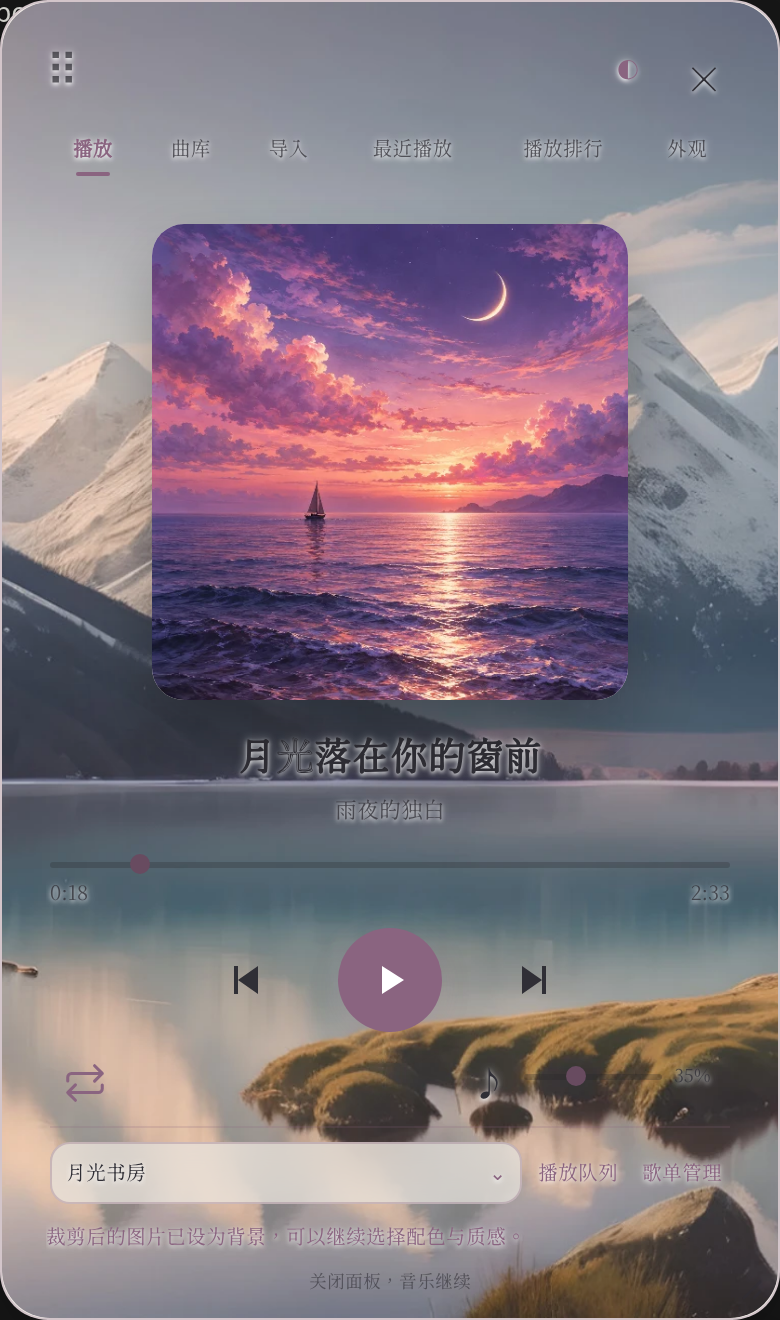
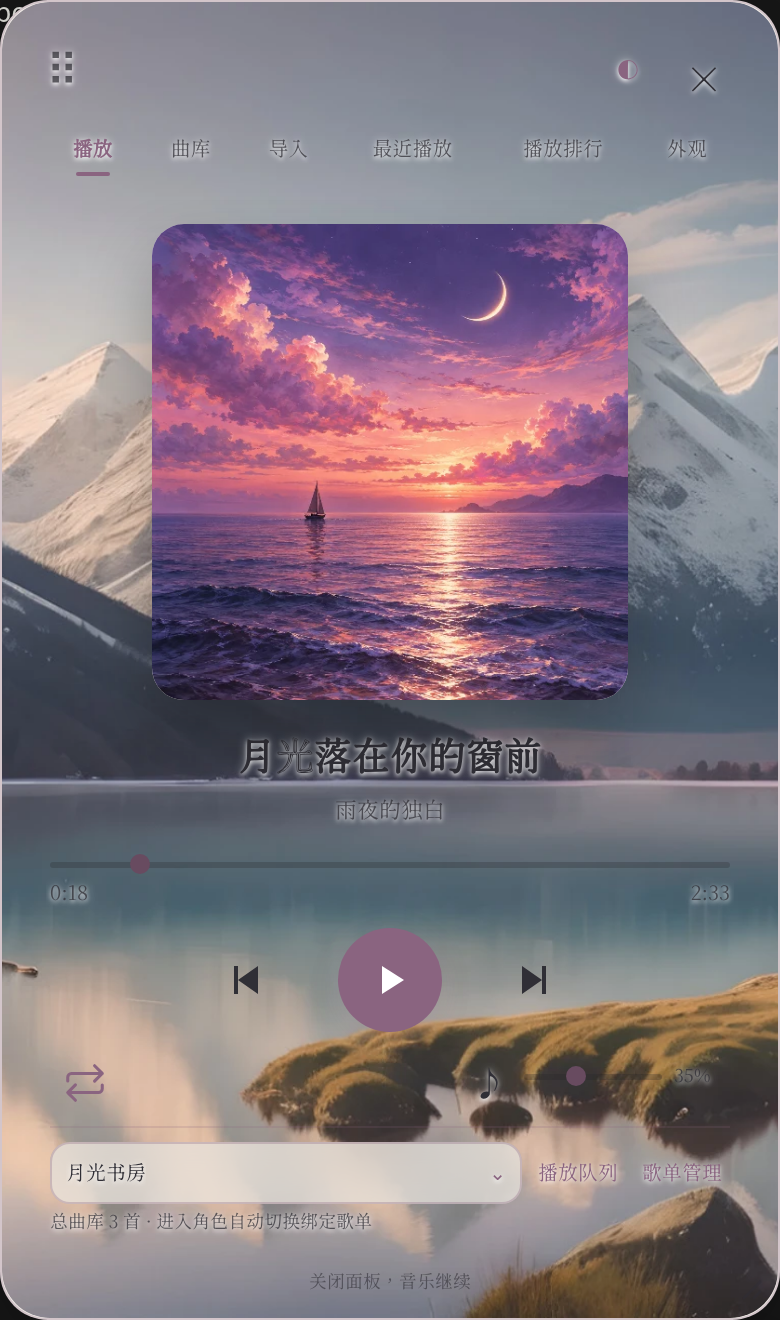
Refine song details sheet and compact bottom playback bar

Changed region(s): [[0.2154, 0.9008, 0.6462, 0.9629], [0.0615, 0.9008, 0.1846, 0.9629]]

diff --git a/index.js b/index.js
@@ -37,7 +37,8 @@ function initialize() {
     let canAutoAdvance = true;
     let membershipTrackId = null;
     let libraryDetail = false;
-    let queueReturnFocus = null;
+    const sheetReturnFocus = new Map();
+    let statusTimer;
     let currentPage = 'playback';
     let playSession = 0;
     let countedSession = -1;
@@ -156,13 +157,6 @@ function initialize() {
             </div>
             <p class="stm-hint">删除歌单保留全部歌曲。进入绑定角色时只切歌单，音乐需手动播放。</p>
         </div>
-        <section class="stm-track-details" hidden>
-            <div class="stm-heading-actions"><strong data-role="details-title"></strong><button type="button" class="stm-icon" data-action="close-details" aria-label="关闭歌曲详情">×</button></div>
-            <p class="stm-hint">给这首歌换封面，或添加歌词。</p>
-            <div class="stm-detail-actions"><button type="button" class="stm-secondary" data-action="song-cover">添加封面</button><button type="button" class="stm-secondary" data-action="song-lyrics">导入歌词</button><button type="button" class="stm-secondary" data-action="clear-song-cover">恢复随机封面</button><button type="button" class="stm-secondary" data-action="clear-song-lyrics">清除歌词</button></div>
-            <input type="file" data-role="song-cover-file" accept="image/png,image/jpeg,image/webp,image/gif,image/avif" hidden>
-            <input type="file" data-role="lyrics-file" accept=".lrc,.txt,text/plain" hidden>
-        </section>
         <div class="stm-membership" hidden>
             <strong data-role="membership-title"></strong>
             <p class="stm-hint">选择目标歌单，再点“加入歌单”。原曲仍保留在总曲库。</p>
@@ -253,6 +247,25 @@ function initialize() {
                 <ol class="stm-queue-list" aria-label="当前歌单"></ol><p class="stm-sheet-empty stm-hint">播放列表还是空的。</p>
             </section>
         </div>
+        <div id="stm-details" class="stm-queue-overlay stm-details-overlay" hidden>
+            <div class="stm-queue-scrim" data-action="close-details" aria-hidden="true"></div>
+            <section class="stm-queue-sheet stm-track-details" role="dialog" aria-modal="true" aria-label="歌曲详情">
+                <span class="stm-sheet-grip" aria-hidden="true"></span>
+                <header><strong>歌曲详情</strong><button type="button" class="stm-icon" data-action="close-details" aria-label="关闭歌曲详情">×</button></header>
+                <div class="stm-details-content">
+                    <div class="stm-details-summary"><img class="stm-details-cover" alt="歌曲封面"><div><strong data-role="details-title"></strong><small data-role="details-source"></small></div></div>
+                    <p class="stm-hint">让封面和歌词，成为这首歌的一部分。</p>
+                    <div class="stm-detail-actions">
+                        <button type="button" class="stm-secondary" data-action="song-cover" aria-label="添加封面"><span>添加封面</span><small aria-hidden="true">上传喜欢的图片</small></button>
+                        <button type="button" class="stm-secondary" data-action="song-lyrics" aria-label="导入歌词"><span>导入歌词</span><small aria-hidden="true">支持 LRC / TXT</small></button>
+                        <button type="button" class="stm-secondary" data-action="clear-song-cover" aria-label="恢复随机封面"><span>恢复随机封面</span><small aria-hidden="true">使用内置插画</small></button>
+                        <button type="button" class="stm-secondary" data-action="clear-song-lyrics" aria-label="清除歌词"><span>清除歌词</span><small aria-hidden="true">移除当前歌曲的歌词</small></button>
+                    </div>
+                    <input type="file" data-role="song-cover-file" accept="image/png,image/jpeg,image/webp,image/gif,image/avif" hidden>
+                    <input type="file" data-role="lyrics-file" accept=".lrc,.txt,text/plain" hidden>
+                </div>
+            </section>
+        </div>
         <div class="stm-lyrics-view" role="button" tabindex="0" aria-label="显示封面" hidden><div class="stm-lyrics-lines"></div><span class="stm-lyrics-tip">轻点返回封面</span></div>
         <button type="button" class="stm-resize-handle" aria-label="调整播放器大小" title="拖动调整大小，也可用方向键微调"><svg viewBox="0 0 20 20" aria-hidden="true"><path d="m8 16 8-8M13 16l3-3"/></svg></button>
         <section class="stm-crop-editor" role="dialog" aria-modal="true" aria-label="裁剪背景图片" hidden>
@@ -311,6 +324,7 @@ function initialize() {
         if (!query(`[data-view="${page}"]`)) return;
         currentPage = page;
         menus.close();
+        setDetailsOpen(false);
         if (page !== 'playback') { setQueueOpen(false); setLyricsOpen(false); }
         for (const section of panel.querySelectorAll('[data-view]')) section.hidden = section.dataset.view !== page;
         for (const button of panel.querySelectorAll('[data-page]')) {
@@ -325,24 +339,44 @@ function initialize() {
         updateMini();
         panelDrag.refresh();
     }
-    function setQueueOpen(open, focus = false) {
-        const overlay = query('#stm-queue');
-        if (open) { queueReturnFocus = document.activeElement; menus.close(); renderQueue(); }
-        overlay.hidden = !open;
-        for (const child of panel.children) if (child !== overlay && !child.classList.contains('stm-click-effects')) child.inert = open;
-        for (const button of panel.querySelectorAll('[data-action="toggle-queue"], .stm-mini-queue')) button.setAttribute('aria-expanded', String(open));
-        if (open) overlay.querySelector('button').focus({ preventScroll: true });
-        else if (focus && queueReturnFocus?.isConnected) queueReturnFocus.focus({ preventScroll: true });
-    }
-    for (const element of panel.querySelectorAll('[data-action="close-queue"]')) element.addEventListener('click', () => setQueueOpen(false, true));
-    query('#stm-queue').addEventListener('keydown', event => {
-        if (event.key === 'Escape') { event.stopPropagation(); setQueueOpen(false, true); }
-        if (event.key === 'Tab') {
-            const buttons = [...query('#stm-queue').querySelectorAll('button:not(:disabled)')];
-            if (event.shiftKey && document.activeElement === buttons[0]) { event.preventDefault(); buttons.at(-1)?.focus(); }
-            else if (!event.shiftKey && document.activeElement === buttons.at(-1)) { event.preventDefault(); buttons[0]?.focus(); }
+    function setSheetOpen(selector, open, restoreFocus = false) {
+        const overlay = query(selector);
+        if (open) {
+            sheetReturnFocus.set(selector, document.activeElement);
+            menus.close();
+            for (const other of panel.querySelectorAll(':scope > .stm-queue-overlay')) if (other !== overlay) other.hidden = true;
         }
-    });
+        overlay.hidden = !open;
+        const active = [...panel.querySelectorAll(':scope > .stm-queue-overlay')].find(sheet => !sheet.hidden);
+        for (const child of panel.children) if (child !== status && !child.classList.contains('stm-click-effects')) child.inert = Boolean(active && child !== active);
+        for (const button of panel.querySelectorAll('[data-action="toggle-queue"], .stm-mini-queue')) button.setAttribute('aria-expanded', String(!query('#stm-queue').hidden));
+        if (open) overlay.querySelector('button').focus({ preventScroll: true });
+        else if (restoreFocus) {
+            const previous = sheetReturnFocus.get(selector);
+            const fallback = selector === '#stm-details' ? [...panel.querySelectorAll('[data-details-id]')].find(button => button.dataset.detailsId === detailsTrackId) : null;
+            (previous?.isConnected ? previous : fallback || query('[data-action="close"]')).focus({ preventScroll: true });
+        }
+    }
+    function setQueueOpen(open, focus = false) {
+        if (open) renderQueue();
+        setSheetOpen('#stm-queue', open, focus);
+    }
+    function setDetailsOpen(open, focus = false) {
+        if (open) renderSongDetails();
+        setSheetOpen('#stm-details', open, focus);
+    }
+    for (const [selector, action] of [['#stm-queue', 'close-queue'], ['#stm-details', 'close-details']]) {
+        const close = () => setSheetOpen(selector, false, true);
+        for (const element of query(selector).querySelectorAll(`[data-action="${action}"]`)) element.addEventListener('click', close);
+        query(selector).addEventListener('keydown', event => {
+            if (event.key === 'Escape') { event.preventDefault(); event.stopPropagation(); close(); }
+            if (event.key === 'Tab') {
+                const buttons = [...query(selector).querySelectorAll('button:not(:disabled)')];
+                if (event.shiftKey && document.activeElement === buttons[0]) { event.preventDefault(); buttons.at(-1)?.focus(); }
+                else if (!event.shiftKey && document.activeElement === buttons.at(-1)) { event.preventDefault(); buttons[0]?.focus(); }
+            }
+        });
+    }
     query('[data-action="toggle-queue"]').addEventListener('click', () => setQueueOpen(query('#stm-queue').hidden));
     query('[data-action="go-import"]').addEventListener('click', () => { importTarget.value = settings.activePlaylistId || ''; menus.refresh(); showPage('import'); });
     query('[data-action="go-library"]').addEventListener('click', showLibraryHome);
@@ -564,7 +598,18 @@ function initialize() {
         if (entry?.url) URL.revokeObjectURL(entry.url);
         coverCache.delete(id);
     }
-    query('[data-action="close-details"]').addEventListener('click', () => { query('.stm-track-details').hidden = true; });
+    function renderSongDetails() {
+        const track = settings.tracks.find(track => track.id === detailsTrackId);
+        if (!track) return;
+        query('[data-role="details-title"]').textContent = track.title;
+        query('[data-role="details-source"]').textContent = track.artist || (track.kind === 'local' ? '本地音乐' : '在线音乐');
+        const image = query('.stm-details-cover');
+        image.src = fallbackCoverUrl(track.fallbackCover ?? 0);
+        const coverId = track.coverId;
+        if (coverId) void cachedCover(coverId).then(url => {
+            if (url && detailsTrackId === track.id && track.coverId === coverId) image.src = url;
+        });
+    }
     const songCoverInput = query('[data-role="song-cover-file"]');
     const lyricsInput = query('[data-role="lyrics-file"]');
     query('[data-action="song-cover"]').addEventListener('click', () => songCoverInput.click());
@@ -656,7 +701,7 @@ function initialize() {
             save();
             await restoreBackground();
             query('[data-role="background-status"]').textContent = '背景已保存，可重新裁剪；图片仅保存在当前浏览器。';
-            showStatus('裁剪后的图片已设为背景，可以继续选择配色与质感。');
+            showStatus();
             await deleteBackgroundFiles(previous).catch(() => {});
         },
         onError(error) {
@@ -701,15 +746,17 @@ function initialize() {
     void restoreBackground();
 
     function showStatus(message = '', error = false) {
+        window.clearTimeout(statusTimer);
         status.textContent = message;
         status.classList.toggle('stm-error', error);
+        if (message) statusTimer = window.setTimeout(() => { status.textContent = ''; status.classList.remove('stm-error'); }, error ? 8000 : 4000);
     }
 
     function setOpen(open, focus = true) {
         panel.hidden = !open;
         launcher.setAttribute('aria-expanded', String(open));
         if (open) { resizer.refresh(); panelDrag.refresh(); if (focus) (panel.dataset.lyricsOpen === 'true' ? query('.stm-lyrics-view') : query('[data-action="close"]')).focus(); }
-        else { menus.close(); setQueueOpen(false); if (panel.contains(document.activeElement)) launcher.focus(); }
+        else { menus.close(); setQueueOpen(false); setDetailsOpen(false); if (panel.contains(document.activeElement)) launcher.focus(); }
     }
 
     const activePlaylist = () => settings.playlists.find(item => item.id === settings.activePlaylistId);
@@ -960,11 +1007,10 @@ function initialize() {
             const details = document.createElement('button');
             details.type = 'button'; details.className = 'stm-icon'; details.textContent = '⋯';
             details.setAttribute('aria-label', `歌曲详情：${track.title}`);
+            details.dataset.detailsId = track.id;
             details.addEventListener('click', () => {
                 detailsTrackId = track.id;
-                query('[data-role="details-title"]').textContent = track.title;
-                query('.stm-track-details').hidden = false;
-                query('.stm-track-details').scrollIntoView({ block: 'nearest' });
+                setDetailsOpen(true);
             });
             row.append(details);
             if (activePlaylist()) {
@@ -1005,7 +1051,8 @@ function initialize() {
         query('[data-action="previous"]').disabled = queue.length === 0;
         query('[data-action="next"]').disabled = queue.length === 0;
         if (assignedCover) save();
-        if (!settings.tracks.some(track => track.id === detailsTrackId)) query('.stm-track-details').hidden = true;
+        if (!settings.tracks.some(track => track.id === detailsTrackId)) setDetailsOpen(false);
+        else if (!query('#stm-details').hidden) renderSongDetails();
         renderQueue();
         renderHistory();
         updatePlayback();
@@ -1449,6 +1496,7 @@ function initialize() {
             fontPicker.dispose(); mini.dispose(); menus.dispose(); resizer.dispose(); disposeClickEffects();
             systemScheme.removeEventListener('change', onSystemScheme);
             window.clearInterval(historyTimer);
+            window.clearTimeout(statusTimer);
         }
     });
 

diff --git a/tests/player.e2e.js b/tests/player.e2e.js
@@ -17,6 +17,7 @@ function wav(seconds = 8) {
 async function playerPage(page, name) {
     if (await page.locator('.stm-lyrics-view').isVisible()) await page.getByRole('button', { name: '显示封面', exact: true }).click();
     if (await page.locator('#stm-queue').isVisible()) await page.getByRole('button', { name: '关闭播放列表', exact: true }).click();
+    if (await page.locator('#stm-details').isVisible()) await page.getByRole('button', { name: '关闭歌曲详情', exact: true }).click();
     await page.getByRole('tab', { name, exact: true }).click();
     if (name === '曲库') {
         const id = await page.locator('#stm-library-playlist').inputValue();
@@ -284,7 +285,7 @@ test('filenames are rendered as text, and the player fits a small screen', async
     expect(bounds.x + bounds.width).toBeLessThanOrEqual(375);
     expect(bounds.y).toBeGreaterThanOrEqual(0);
     await page.locator('#stm-player').evaluate(panel => { panel.scrollTop = panel.scrollHeight; });
-    await expect(page.locator('.stm-footer')).toBeInViewport();
+    await expect(page.locator('.stm-mini-player')).toBeInViewport();
 });
 
 async function dragTo(page, element, target) {
@@ -842,7 +843,7 @@ test('crop dragging, cancellation and invalid image recovery work on a small scr
     await page.getByRole('button', { name: '使用此区域', exact: true }).click();
     await expect(page.locator('.stm-crop-editor')).toBeHidden();
     await expect(page.locator('#stm-player')).toHaveAttribute('data-has-background', 'true');
-    await expect(page.locator('.stm-footer')).toBeInViewport();
+    await expect(page.locator('.stm-mini-player')).toBeInViewport();
 });
 
 test('mask transparency is independent per material, preserves clear mode, and persists across reloads', async ({ page }) => {
@@ -1361,7 +1362,7 @@ test('vinyl mini bar animates only while playing and its queue uses two thirds o
         await page.setViewportSize(viewport);
         await page.locator('.stm-mini-queue').click();
         await expect(page.locator('.stm-queue-track')).toHaveCount(16);
-        const panel = await page.locator('#stm-player').boundingBox(), sheet = await page.locator('.stm-queue-sheet').boundingBox();
+        const panel = await page.locator('#stm-player').boundingBox(), sheet = await page.locator('#stm-queue .stm-queue-sheet').boundingBox();
         expect(sheet.height).toBeLessThanOrEqual(panel.height * 2/3 + 1); expect(sheet.height).toBeGreaterThan(panel.height * .6);
         expect(sheet.y+sheet.height).toBeLessThanOrEqual(panel.y+panel.height);
         await page.getByRole('button', {name: '播放队列歌曲：下一首', exact:true}).click();
@@ -1376,4 +1377,61 @@ test('vinyl mini bar animates only while playing and its queue uses two thirds o
     await page.locator('.stm-mini-info').click();
     await expect(page.getByRole('tab', {name:'播放',exact:true})).toHaveAttribute('aria-selected','true');
     await expect(page.locator('.stm-mini-player')).toBeHidden();
+});
+
+test('song details open as a two thirds bottom sheet and retain controls, focus and playback after cover edits', async ({ page }) => {
+    await importSongs(page, ['我的封面与歌词']); await playSong(page, '我的封面与歌词');
+    await playerPage(page, '曲库');
+    const opener = page.getByRole('button', {name:'歌曲详情：我的封面与歌词', exact:true});
+    for (const viewport of [{width:1280,height:900}, {width:375,height:667}]) {
+        await page.setViewportSize(viewport); await opener.click();
+        const sheet = page.getByRole('dialog', {name:'歌曲详情', exact:true});
+        await expect(sheet).toBeVisible();
+        const panel = await page.locator('#stm-player').boundingBox(), box = await sheet.boundingBox();
+        expect(box.height).toBeLessThanOrEqual(panel.height*2/3+1);
+        expect(box.y).toBeGreaterThanOrEqual(panel.y+panel.height/3-1);
+        expect(box.y+box.height).toBeLessThanOrEqual(panel.y+panel.height);
+        await expect(page.locator('[data-role="details-title"]')).toHaveText('我的封面与歌词');
+        await expect(page.getByRole('button', {name:'关闭歌曲详情',exact:true})).toBeFocused();
+        await page.keyboard.press('Shift+Tab');
+        await expect(page.getByRole('button', {name:'清除歌词',exact:true})).toBeFocused();
+        await page.locator('[data-role="song-cover-file"]').setInputFiles(await imageFixture(page));
+        await expect(page.locator('.stm-details-cover')).toHaveAttribute('src', /^blob:/);
+        await expect.poll(() => page.locator('#stm-player audio').evaluate(audio => audio.paused)).toBe(false);
+        await page.keyboard.press('Escape');
+        await expect(sheet).toBeHidden(); await expect(opener).toBeFocused();
+        await opener.click();
+        const scrim = page.locator('#stm-details > .stm-queue-scrim');
+        await scrim.click({position:{x:(await scrim.boundingBox()).width/2,y:70}});
+        await expect(sheet).toBeHidden(); await expect(opener).toBeFocused();
+    }
+});
+
+test('background saves leave no lingering message and the compact mini bar stays at the bottom in both color schemes', async ({ page }) => {
+    await importBackground(page); await page.getByRole('button', {name:'使用此区域',exact:true}).click();
+    await expect(page.locator('.stm-crop-editor')).toBeHidden();
+    await expect(page.locator('#stm-player')).toHaveAttribute('data-has-background','true');
+    await expect(page.locator('.stm-status')).toBeEmpty();
+    await page.addStyleTag({content:'#stm-player h3 { color: hotpink !important; }'});
+    for (const [viewport, colorScheme] of [[{width:1280,height:900},'light'],[{width:375,height:667},'dark']]) {
+        await page.setViewportSize(viewport); await page.emulateMedia({colorScheme});
+        const heading = page.getByRole('heading', {name:'配色与背景',exact:true});
+        const colors = await heading.evaluate(element => ({heading:getComputedStyle(element).color, body:getComputedStyle(document.getElementById('stm-player')).color}));
+        expect(colors.heading).toBe(colors.body); expect(colors.heading).not.toBe('rgb(255, 105, 180)');
+        const panel = await page.locator('#stm-player').boundingBox(), mini = await page.locator('.stm-mini-player').boundingBox();
+        expect(mini.height).toBeLessThanOrEqual(46);
+        expect(panel.y+panel.height-mini.y-mini.height).toBeGreaterThanOrEqual(4);
+        expect(panel.y+panel.height-mini.y-mini.height).toBeLessThanOrEqual(8);
+        await expect(page.locator('.stm-footer')).toBeHidden();
+    }
+    await playerPage(page,'播放'); await page.clock.install(); await page.locator('#stm-mode').click();
+    await expect(page.locator('.stm-status')).toContainText('播放模式：');
+    await playerPage(page,'外观');
+    const panel = await page.locator('#stm-player').boundingBox(), mini = await page.locator('.stm-mini-player').boundingBox();
+    expect(panel.y+panel.height-mini.y-mini.height).toBeLessThanOrEqual(8);
+    await page.clock.fastForward(4100); await expect(page.locator('.stm-status')).toBeEmpty();
+    await page.locator('[data-role="files"]').setInputFiles({name:'bad.txt',mimeType:'text/plain',buffer:Buffer.from('bad')});
+    await expect(page.locator('.stm-status')).toHaveClass(/stm-error/);
+    await page.clock.fastForward(6500); await expect(page.locator('.stm-status')).not.toBeEmpty();
+    await page.clock.fastForward(1600); await expect(page.locator('.stm-status')).toBeEmpty();
 });

diff --git a/style.css b/style.css
@@ -296,3 +296,24 @@
 
 .stm-player .stm-add-song { flex-shrink: 0; font-size: 10px; padding: 5px 3px; white-space: nowrap; }
 .stm-mini-queue svg { fill: none; stroke: currentColor; stroke-width: 1.7; stroke-linecap: round; stroke-linejoin: round; }
+
+/* Keep page titles readable even when the host styles h3 with its accent. */
+#stm-player .stm-page-heading h3 { color: var(--stm-body) !important; }
+.stm-player .stm-track-details { margin: 0; }
+.stm-details-content { flex: 1; min-height: 0; overflow-y: auto; padding-top: 5px; }
+.stm-details-summary { display: flex; align-items: center; gap: 14px; margin: 8px 0 18px; }
+.stm-details-cover { flex-shrink: 0; width: 72px; height: 72px; object-fit: cover; border-radius: 12px; }
+.stm-details-summary > div { min-width: 0; display: flex; flex-direction: column; gap: 5px; }
+.stm-details-summary strong { font-size: 17px; font-weight: 500; overflow-wrap: anywhere; }
+.stm-details-summary small { font-size: 11px; color: var(--stm-muted); }
+.stm-player .stm-track-details .stm-detail-actions { display: grid; grid-template-columns: repeat(2, minmax(0, 1fr)); gap: 5px 15px; margin-top: 14px; }
+.stm-player .stm-track-details .stm-detail-actions button { display: flex; flex-direction: column; justify-content: center; align-items: flex-start; gap: 5px; min-height: 65px; padding: 8px 4px; border-bottom: 1px solid var(--stm-line); border-radius: 0; white-space: normal; text-align: left; }
+.stm-detail-actions button > span { font-size: 13px; }
+.stm-detail-actions button > small { font-size: 9px; color: var(--stm-muted); }
+.stm-player .stm-status { position: absolute; z-index: 80; left: 18px; right: 18px; bottom: 60px; max-height: 72px; margin: 0; padding: 9px 12px; border: 1px solid var(--stm-line); border-radius: 10px; color: var(--stm-body); background: color-mix(in srgb, var(--stm-solid) 95%, transparent); box-shadow: 0 4px 20px #0002; backdrop-filter: blur(18px) !important; -webkit-backdrop-filter: blur(18px) !important; }
+.stm-player .stm-status:empty { display: none; }
+.stm-player[data-mini-visible="true"] { padding-bottom: 6px; }
+.stm-player[data-mini-visible="true"] > .stm-footer { display: none; }
+.stm-player .stm-mini-player { height: 44px; min-height: 44px; padding: 4px 8px; margin-top: 6px; }
+.stm-player .stm-mini-disc { width: 34px; height: 34px; flex-basis: 34px; }
+.stm-player .stm-status.stm-error { color: var(--stm-error); }

diff --git a/player-components.js b/player-components.js
@@ -6,7 +6,7 @@ export function createMiniPlayer({ panel, audio, getTrack, getCount, loadCover, 
     const element = document.createElement('section');
     element.className = 'stm-mini-player'; element.setAttribute('aria-label', '当前播放'); element.hidden = true;
     element.innerHTML = `<button type="button" class="stm-mini-info" aria-label="返回播放界面"><span class="stm-mini-disc"><img alt="当前歌曲封面"></span><span class="stm-mini-title-clip"><span class="stm-mini-title"></span></span></button><button type="button" class="stm-mini-play" aria-label="底栏播放"></button><button type="button" class="stm-mini-queue" aria-label="打开当前播放列表" aria-controls="stm-queue" aria-expanded="false"><svg viewBox="0 0 24 24" aria-hidden="true"><path d="M9 5h12M9 12h12M9 19h12M3 4l3 1-3 2zM3 11h2v2H3zM3 18h2v2H3z"/></svg></button>`;
-    panel.querySelector('.stm-status').before(element);
+    panel.querySelector('.stm-footer').before(element);
     const title = element.querySelector('.stm-mini-title');
     const clip = element.querySelector('.stm-mini-title-clip');
     const image = element.querySelector('img');
@@ -26,6 +26,7 @@ export function createMiniPlayer({ panel, audio, getTrack, getCount, loadCover, 
     return {
         render(hidden) {
             element.hidden = hidden;
+            panel.dataset.miniVisible = String(!hidden);
             const track = getTrack();
             const playing = Boolean(track && !audio.paused && !audio.ended);
             const text = track?.title || '还没有选择歌曲';

diff --git a/README.md b/README.md
@@ -39,7 +39,7 @@
 
 ## 底部播放条与当前队列
 
-除播放页外，其余页面底部固定显示当前播放条。左侧是中间嵌入歌曲封面的黑胶唱片，播放时旋转，暂停时停在当前角度；过长的歌名会慢速往返滚动。右侧有播放/暂停键和当前队列按钮，状态与每首歌曲右侧的按钮同步。点击唱片或歌名返回播放页，播放页隐藏这条底栏。
+除播放页外，其余页面底部固定显示当前播放条。底栏高度约 44 个 CSS 像素，距窗口底部约 6 像素；显示底栏时隐藏原来的页脚说明。操作消息采用自动消失的浮层，不会再把底栏向上挤。左侧是中间嵌入歌曲封面的黑胶唱片，播放时旋转，暂停时停在当前角度；过长的歌名会慢速往返滚动。右侧有播放/暂停键和当前队列按钮，状态与每首歌曲右侧的按钮同步。点击唱片或歌名返回播放页，播放页隐藏这条底栏。
 
 队列从播放器底部展开，占窗口三分之二高度，歌曲多时在列表内部滚动。它显示当前选中的歌单或总曲库，并标明来源；点歌后保持打开，方便继续选歌。系统开启“减少动态效果”时不旋转唱片、不滚动歌名。
 
@@ -51,7 +51,9 @@
 
 导入本地 MP3 时，会读取 ID3v2.2 / v2.3 / v2.4 中的歌名、歌手、封面和非同步歌词。MP3 没有内嵌封面、其他格式未解析封面，或当前浏览器缺少封面文件时，会使用扩展自带的三幅插画：月夜森林、暮色海面、暖光书房。无封面的歌曲随机匹配一幅，结果随歌曲保存，刷新不随意更换。默认封面随插件提供，可离线使用。
 
-在 **曲库 → 歌曲右侧 ⋯** 中可以为该歌曲 **添加封面**、**导入歌词**、恢复随机封面或清除歌词。封面会处理为轻量方形图片；删除歌曲时同时清理本地音频和封面。支持 UTF-8 编码的 `.lrc`、`.txt` 歌词文件，最大 512 KB、50000 字符。
+在 **曲库 → 歌曲右侧 ⋯** 中会从底部打开占播放器约三分之二高度的歌曲详情，显示封面、歌名和歌手；内容较多时可以内部滚动，点击 ×、上方遮罩或按 Esc 关闭。弹层支持深浅配色，不打断当前音乐。可以为该歌曲 **添加封面**、**导入歌词**、恢复随机封面或清除歌词。封面会处理为轻量方形图片；删除歌曲时同时清理本地音频和封面。支持 UTF-8 编码的 `.lrc`、`.txt` 歌词文件，最大 512 KB、50000 字符。
+
+![歌曲详情底部弹层](docs/details.png)
 
 有时间轴的 LRC 会随播放、拖动进度高亮并跟随当前句，普通文本歌词可滚动阅读。没有歌词时明确显示“暂无歌词”。本插件不会自动抓取网易云、QQ 音乐等平台的歌词；音频直链不能保证提供歌曲封面和歌词。
 
@@ -104,6 +106,8 @@
 
 ![配色与质感选择](docs/appearance.png)
 
+[查看图片背景下的标题与贴底播放条](docs/appearance-background.png)
+
 ## 字体选择与导入
 
 在 **外观 → 界面字体 → 预览与选择** 中，每款字体只占紧凑的一行，字体名称使用该字体自身的字形展示，点击即可应用到播放器和歌词。当前选中项有勾选标记；方向键可以切换，Esc 收起列表。只影响播放器，酒馆其他界面保持原有字体。
@@ -138,7 +142,7 @@
 
 ![清透图片背景](docs/background.png)
 
-点击 **重新裁剪** 可以从保存的原图重新选取区域；取消不会改变已有背景。点击 **移除图片** 恢复原有配色背景，如果正在使用清透，会自动恢复毛玻璃。背景原图和裁剪结果仅保存在当前浏览器，不上传到 GitHub 或酒馆服务器。其他设备需要重新导入。
+背景保存后不会留下固定的成功提示。点击 **重新裁剪** 可以从保存的原图重新选取区域；取消不会改变已有背景。点击 **移除图片** 恢复原有配色背景，如果正在使用清透，会自动恢复毛玻璃。背景原图和裁剪结果仅保存在当前浏览器，不上传到 GitHub 或酒馆服务器。其他设备需要重新导入。
 
 ## 最近播放与三天排行
 
@@ -215,6 +219,8 @@ npm test
 1.6.0 增加七款内置字体的真实字样预览、多字体批量导入与旧设置迁移、全窗透明歌词、图标模式切换、磨砂歌单菜单、点击涟漪、窗口缩放边界与保存、触屏缩放、系统日夜跟随与手动选择验证。
 
 1.7.0 增加勾选标记可见性、播放器内部小涟漪、单行字体预览、总曲库与歌单总览、一键新建并加入歌曲、歌单独立封面及删除清理、歌曲原地暂停续播、底部黑胶播放条、长歌名滚动，以及电脑和手机上的三分之二高度播放列表验证。
+
+1.7.1 验证歌曲详情底部弹层在电脑和手机上的高度限制、封面编辑后的焦点恢复和继续播放、标题覆盖宿主配色、背景保存无残留提示、操作消息自动收起，以及矮版播放条贴近底部且不受提示挤压。
 
 ## 许可
 
